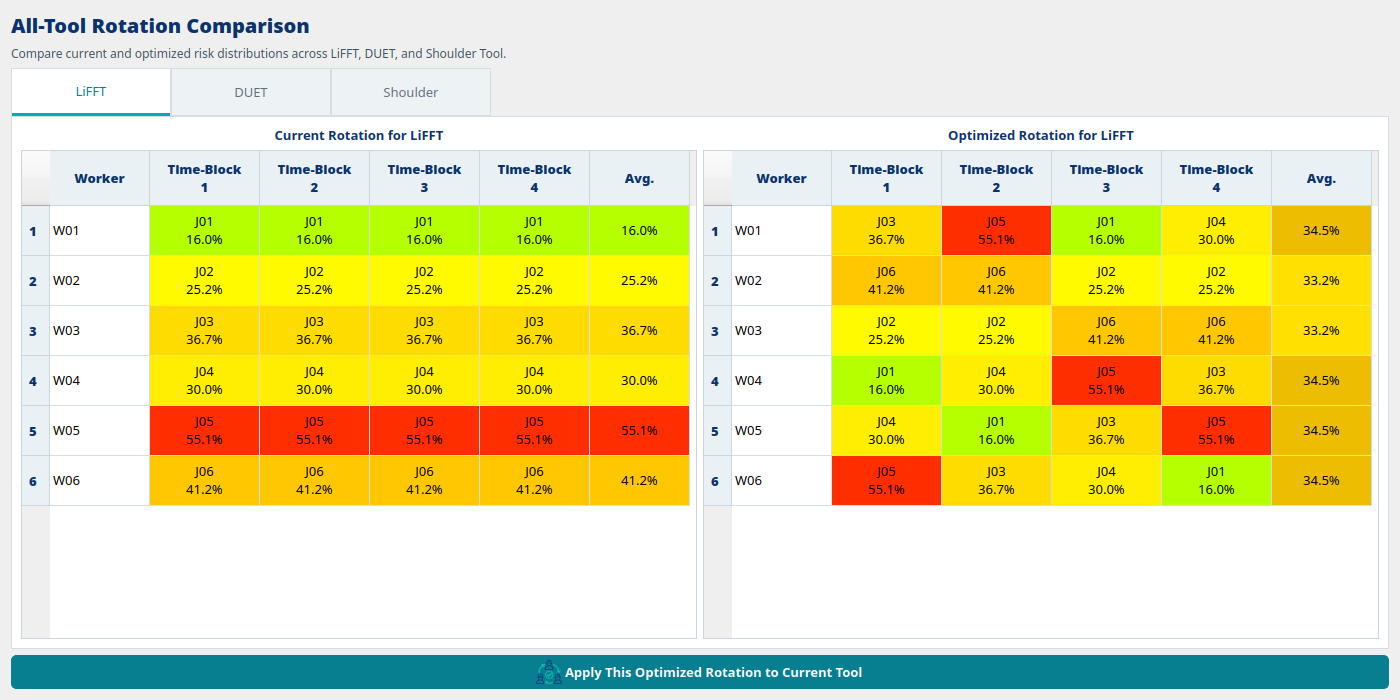
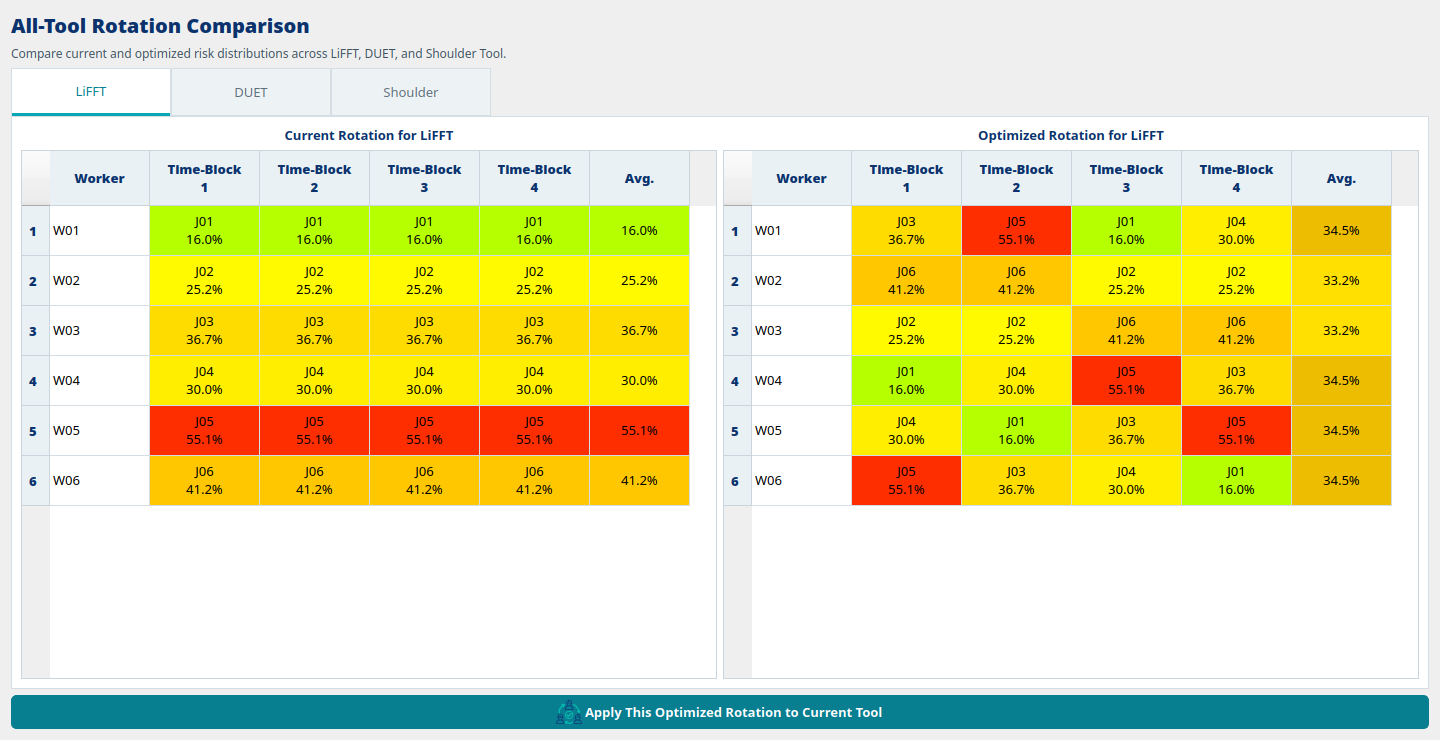
Expand JROT scopes and single versus all-tool comparisons

diff --git a/README.md b/README.md
@@ -169,29 +169,75 @@ one standard deviation.
 ## JROT
 
 JROT evaluates worker-by-time-block Job schedules and optimizes the distribution
-of exposure. Analyses can cover all Jobs or a selected workplace scope, using
-one assessment method or LiFFT, DUET and ST together.
+of exposure. Job risks can come from existing measurements, task-based calculations
+or copied worker assessments.
 
-![JROT with a six-worker rotation and optimized schedule](docs/images/jrot_optimized.png)
+![JROT showing current and LiFFT-optimized schedules for six workers](docs/images/jrot_optimized.png)
 
-Job risks can come from existing measurements, task-based calculations or copied
-worker assessments. Single-tool optimization uses CBC; combined optimization uses
-HiGHS. Comparison views present the current and proposed schedules and their exposure
-distributions.
+### Two analysis scopes
+
+| Scope | Analysis population | Typical use |
+| --- | --- | --- |
+| **All Jobs** | The project's active Jobs with risk values and its worker records, without requiring workplace assignments. | Compare rotations across a Job pool independently of physical locations. |
+| **Workplace** | Jobs placed at selected stations and workers assigned within the selected locations and shift. The Plant → Section → Line → Station hierarchy defines the scope. | Evaluate rotations within a specific production area and shift. |
 
 <table>
 <tr>
-<td width="46%"><a href="docs/images/job_management.png"><img src="docs/images/job_management.png" alt="Job Management with LiFFT, DUET and ST risk values"></a></td>
-<td width="54%"><a href="docs/images/jrot_comparison.png"><img src="docs/images/jrot_comparison.png" alt="JROT comparison of current and optimized exposure distributions"></a></td>
+<td width="52%"><a href="docs/images/jrot_scope.png"><img src="docs/images/jrot_scope.png" alt="JROT workplace scope selector with shift and plant, section, line and station hierarchy"></a></td>
+<td width="48%"><a href="docs/images/job_management.png"><img src="docs/images/job_management.png" alt="Job Management with LiFFT, DUET and ST measurements"></a></td>
 </tr>
 <tr>
-<td valign="top"><strong>Job assessment.</strong> Activity-level measurements supply the ergonomic basis for rotation analysis.</td>
-<td valign="top"><strong>Rotation comparison.</strong> Current and optimized schedules reveal changes in the distribution of worker exposure.</td>
+<td valign="top"><strong>Workplace scope.</strong> The hierarchy identifies the locations included in the rotation analysis for a selected shift.</td>
+<td valign="top"><strong>Job assessment.</strong> Activity-level measurements provide the ergonomic basis for either analysis scope.</td>
 </tr>
 </table>
 
-Rotation analysis complements Job redesign and other ergonomic controls.
-Redistributing exposure does not eliminate a hazardous activity.
+### Optimize one tool or all three
+
+| Mode | Optimization goal | Interpreting the result |
+| --- | --- | --- |
+| **Optimize Tool** | Minimize the highest worker schedule average for the selected method: LiFFT, DUET or ST. Uses CBC. | A schedule optimized for one anatomical region may improve or worsen the results for the other methods. The comparison view evaluates those other methods without optimizing again. |
+| **Optimize All Tools** | Consider LiFFT, DUET and ST together, first minimizing the sum of their maximum worker averages, then reducing the exposure spread within those bounds. Uses HiGHS. | Produces one shared schedule balancing the three methods. Each comparison tab evaluates that schedule with a different tool; the tabs are not three independent optimizations. |
+
+Both modes retain the scheduled Job occurrences and the staffing constraints.
+Redistributing work can reduce the highest worker exposure or make the distribution
+more even without lowering the population average.
+
+### Rotation comparison
+
+**Current** and **optimized** matrices show each worker's Job in each time block,
+with risk colors and a schedule average at the end of the row. These averages use
+Job-level risk values across equal time blocks; they are not individual worker
+assessment results.
+
+**After single-tool optimization**, the main JROT window shows the selected tool's
+result. The additional comparison shows the same rotation under the other two
+methods. Here, a LiFFT-optimized schedule is evaluated with DUET and ST, making
+cross-region trade-offs visible.
+
+[![DUET and Shoulder Tool comparisons for a LiFFT-optimized schedule](docs/images/jrot_single_comparison.png)](docs/images/jrot_single_comparison.png)
+
+**After all-tool optimization**, the three tabs compare the original rotation with
+one jointly optimized schedule. The LiFFT tab below shows the low-back results;
+the DUET and ST captures show the corresponding distal upper-extremity and shoulder
+results for exactly the same assignments.
+
+[![All-tool optimization comparison evaluated with LiFFT](docs/images/jrot_comparison.png)](docs/images/jrot_comparison.png)
+
+<table>
+<tr>
+<td width="50%"><a href="docs/images/jrot_comparison_duet.png"><img src="docs/images/jrot_comparison_duet.png" alt="DUET tab comparing the current rotation with the jointly optimized schedule"></a></td>
+<td width="50%"><a href="docs/images/jrot_comparison_shoulder.png"><img src="docs/images/jrot_comparison_shoulder.png" alt="Shoulder Tool tab comparing the current rotation with the same jointly optimized schedule"></a></td>
+</tr>
+<tr>
+<td valign="top"><strong>DUET.</strong> Compare distal upper-extremity exposure before and after the joint optimization.</td>
+<td valign="top"><strong>ST.</strong> Compare shoulder exposure before and after the same joint optimization.</td>
+</tr>
+</table>
+
+Click any comparison image for full resolution. Rotation analysis complements Job
+redesign and other ergonomic controls; redistributing exposure does not eliminate a
+hazardous activity.
 
 ## Scientific basis
 

diff --git a/docs/images/README.md b/docs/images/README.md
@@ -7,3 +7,7 @@ Tool examples illustrate low, moderate and high modeled risk respectively.
 All worker identities used for these demonstrations are fictional. Values illustrate
 the software and are not exposure recommendations. Detail images are crops of actual
 application captures; the original logo is retained in the application resources.
+
+JROT comparisons include a single-tool-optimized schedule evaluated under the other
+two methods, and all three tabs of one jointly optimized schedule. The workplace
+scope image shows the production location/shift selector.
